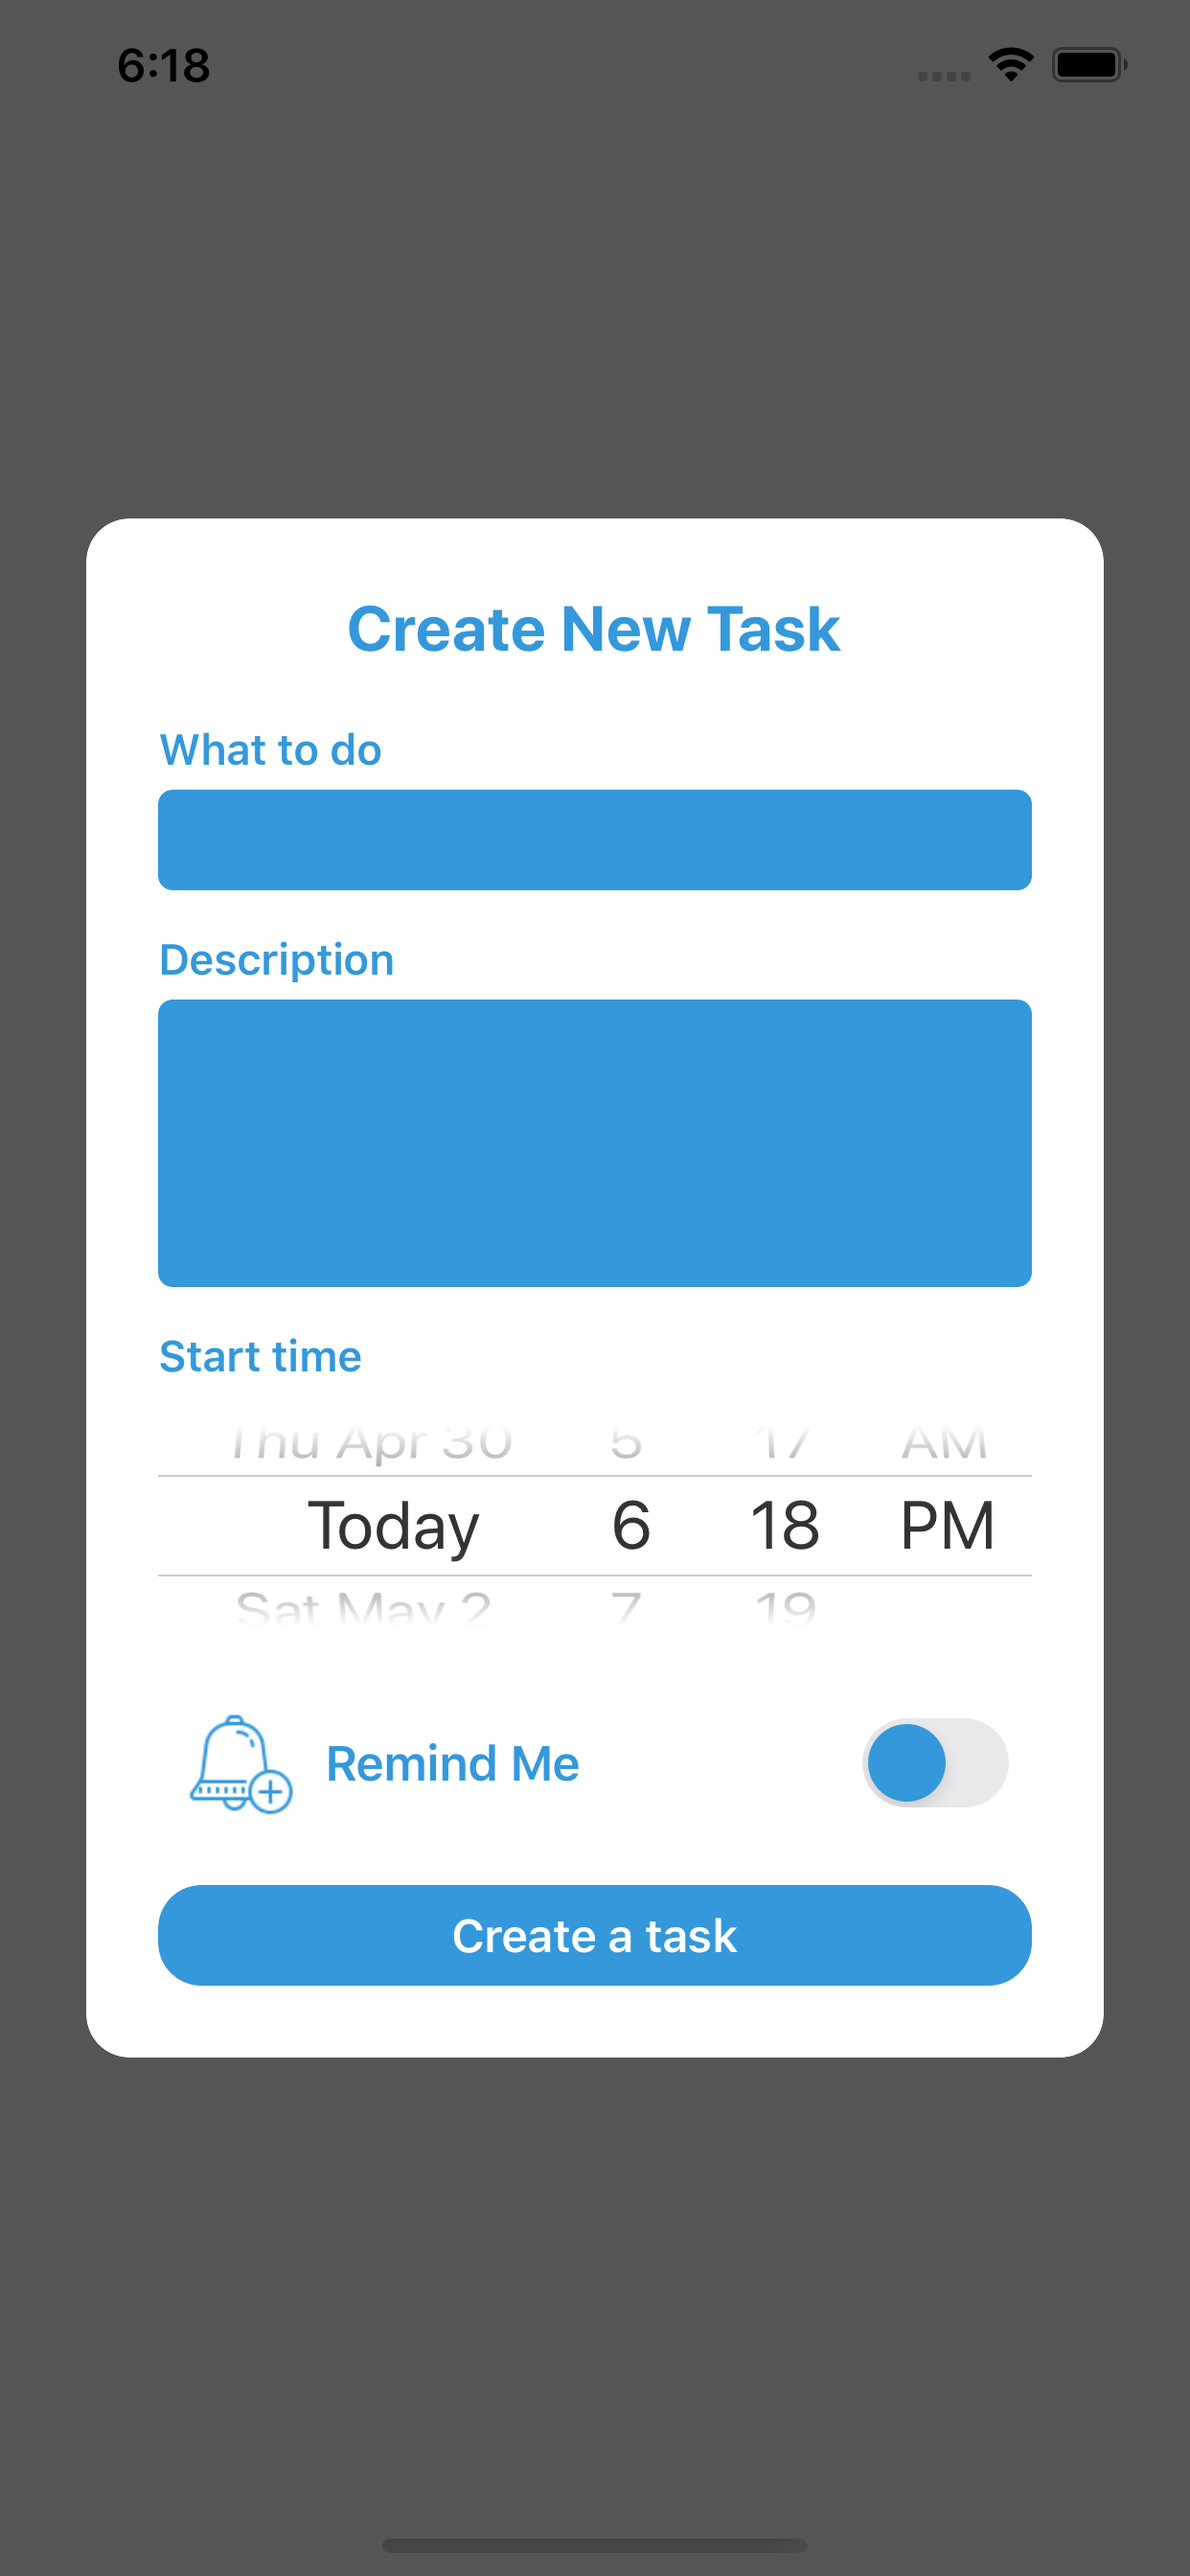
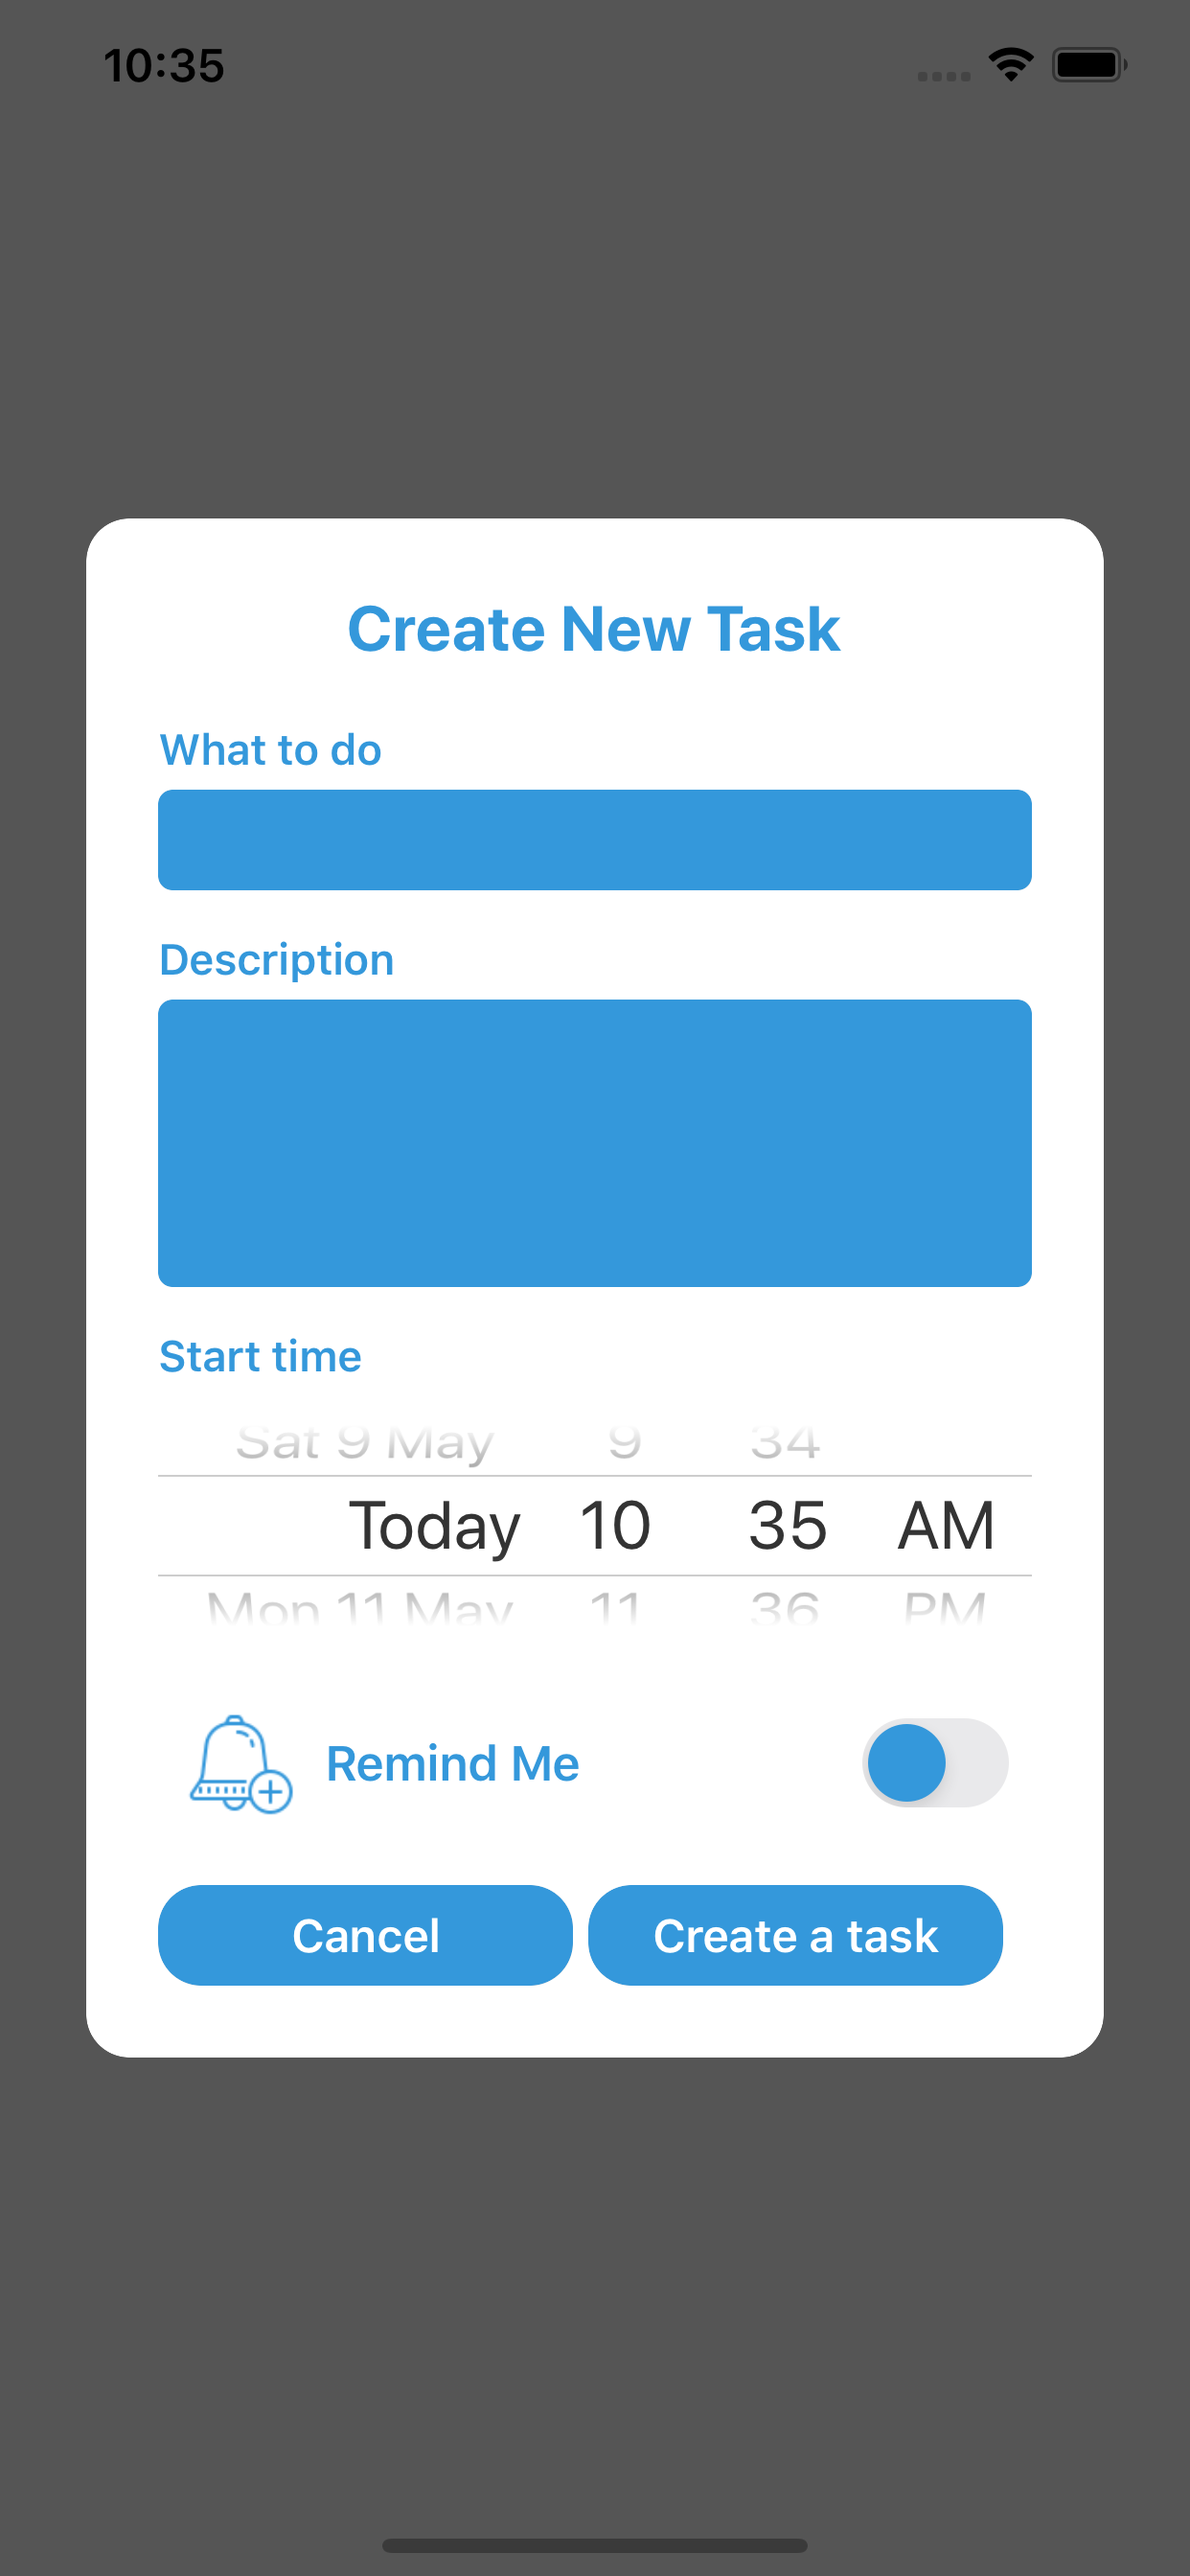
update image and readme

diff --git a/README.md b/README.md
@@ -9,9 +9,15 @@ Màn hình chính:
 
 <img src="https://github.com/htkien2511/ToDoList-CabK/blob/master/image/tableview.png" alt="alt text" width="300" >
 
-Màn hình thêm 1 note:
+Màn hình thêm 1 task:
 
 <img src="https://github.com/htkien2511/ToDoList-CabK/blob/master/image/addview.png" alt="alt text" width="300" >
+
+Màn hình cập nhật 1 task:
+<img src="https://github.com/htkien2511/ToDoList-CabK/blob/master/image/updateview.png" alt="alt text" width="300" >
+
+Màn hình xoá 1 task:
+<img src="https://github.com/htkien2511/ToDoList-CabK/blob/master/image/deleteTask.png" alt="alt text" width="300" >
 
 ## Authors
 
